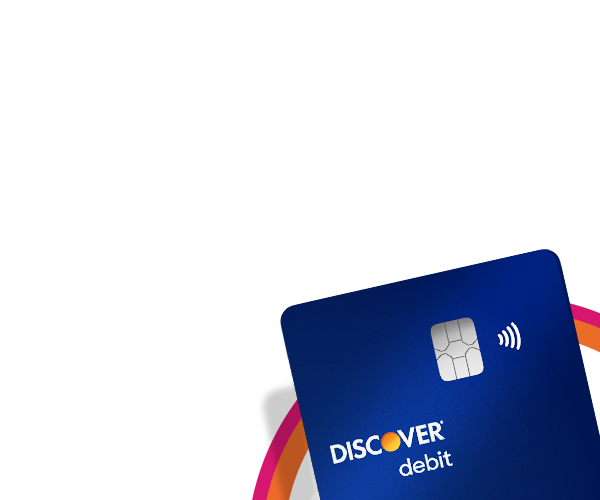
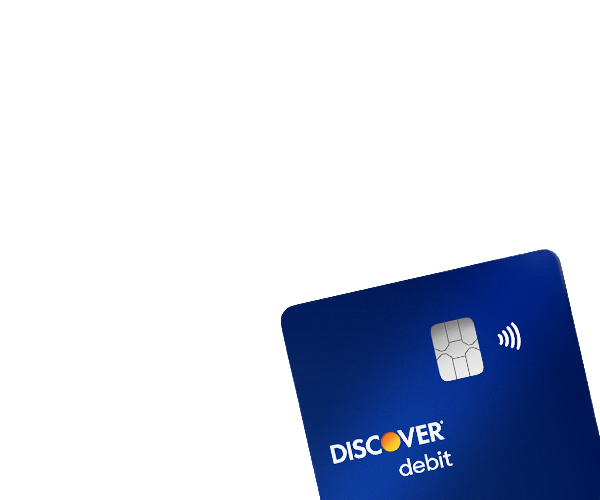
added animated effect to the card

diff --git a/js/script.js b/js/script.js
@@ -5,4 +5,25 @@ document.addEventListener("DOMContentLoaded", function() {
         ease: "power1.inOut",
     });
 
+    gsap.to(".debit-card", {
+        duration: 0.5,  
+        y: '-300px',  
+        ease: "power2.out",
+        delay: 0.50, 
+        onComplete: function() {
+            gsap.to(".debit-card", {
+                duration: 0.3,
+                scale: 1.1, // Scale up the card a bit
+                ease: "power1.inOut",
+                onComplete: function() {
+                    gsap.to(".debit-card", {
+                        duration: 0.5,
+                        scale: 1.0, // Return to normal size with a bounce effect
+                        ease: "bounce.out",
+                    });
+                }
+            });
+        }
+    });
+
 });

diff --git a/index.html b/index.html
@@ -18,7 +18,7 @@
             Learn More
             <div class="button-glare"></div>
         </button>
-        <img src="assets/images/debitcard.png" alt="Discover Debit Card" class="debit-card">
+        <img src="assets/images/debitcard-nobg.png" alt="Discover Debit Card" class="debit-card">
         <p class="footer-text">Discover Bank. Member FDIC.</p>
     </div>
 

diff --git a/css/styles.css b/css/styles.css
@@ -119,9 +119,8 @@ button:hover {
 
 .debit-card {
     position: absolute;
-    bottom: 0;
+    bottom: -300px; /* Start below the container */
     right: 0;
-    width: 625px;
     height: auto;
     transform: rotate(0deg);
 }
